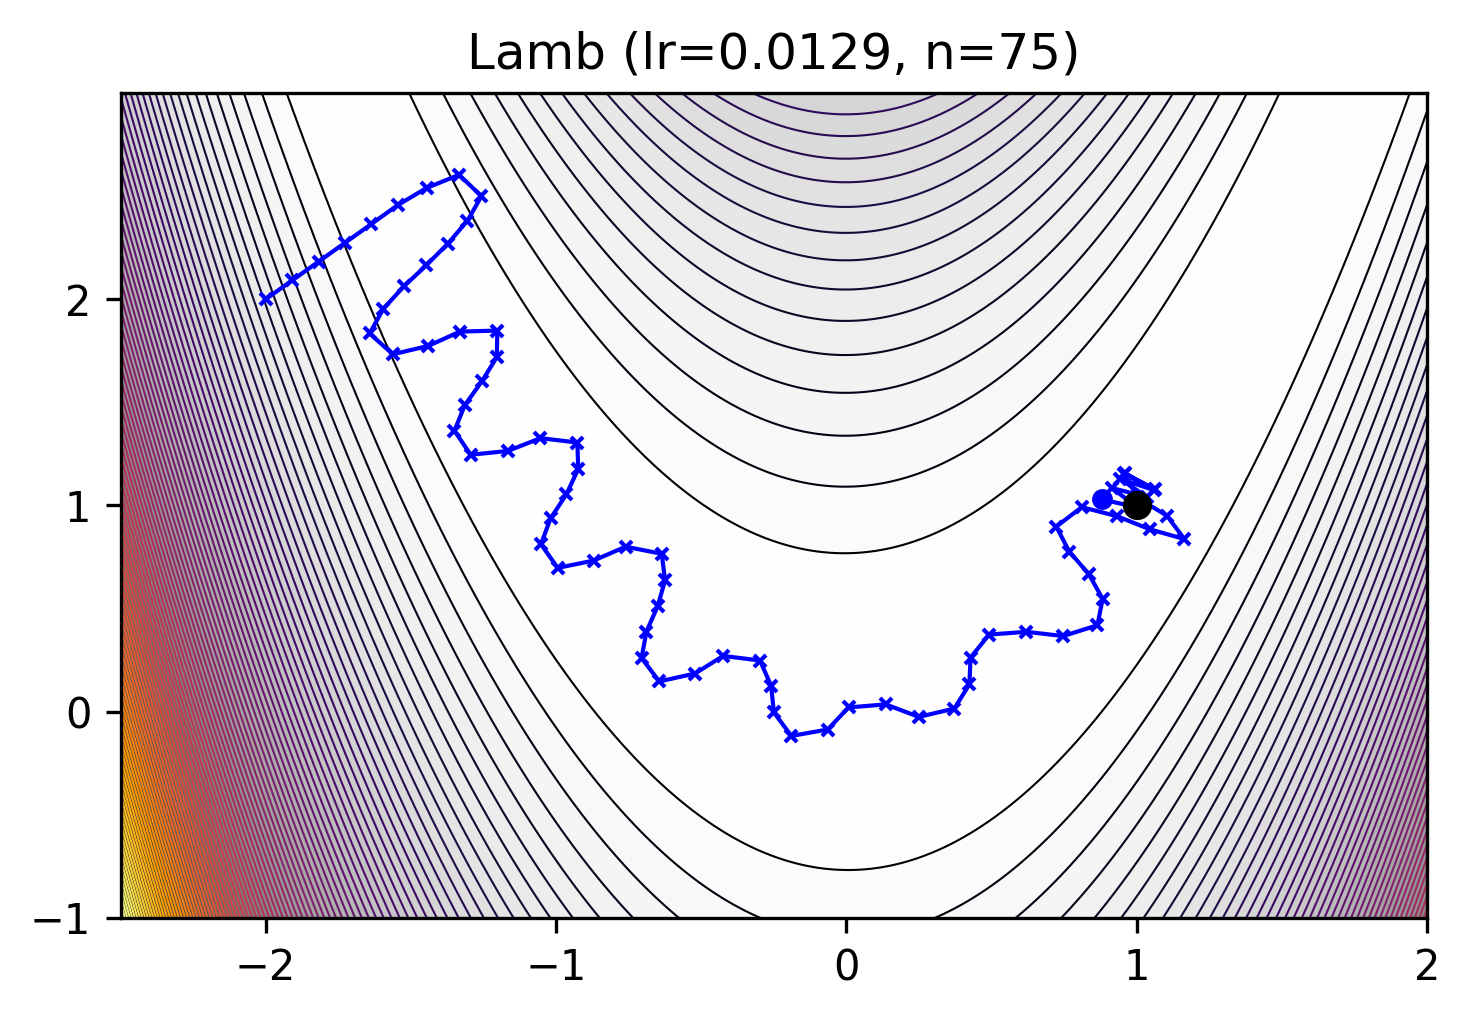
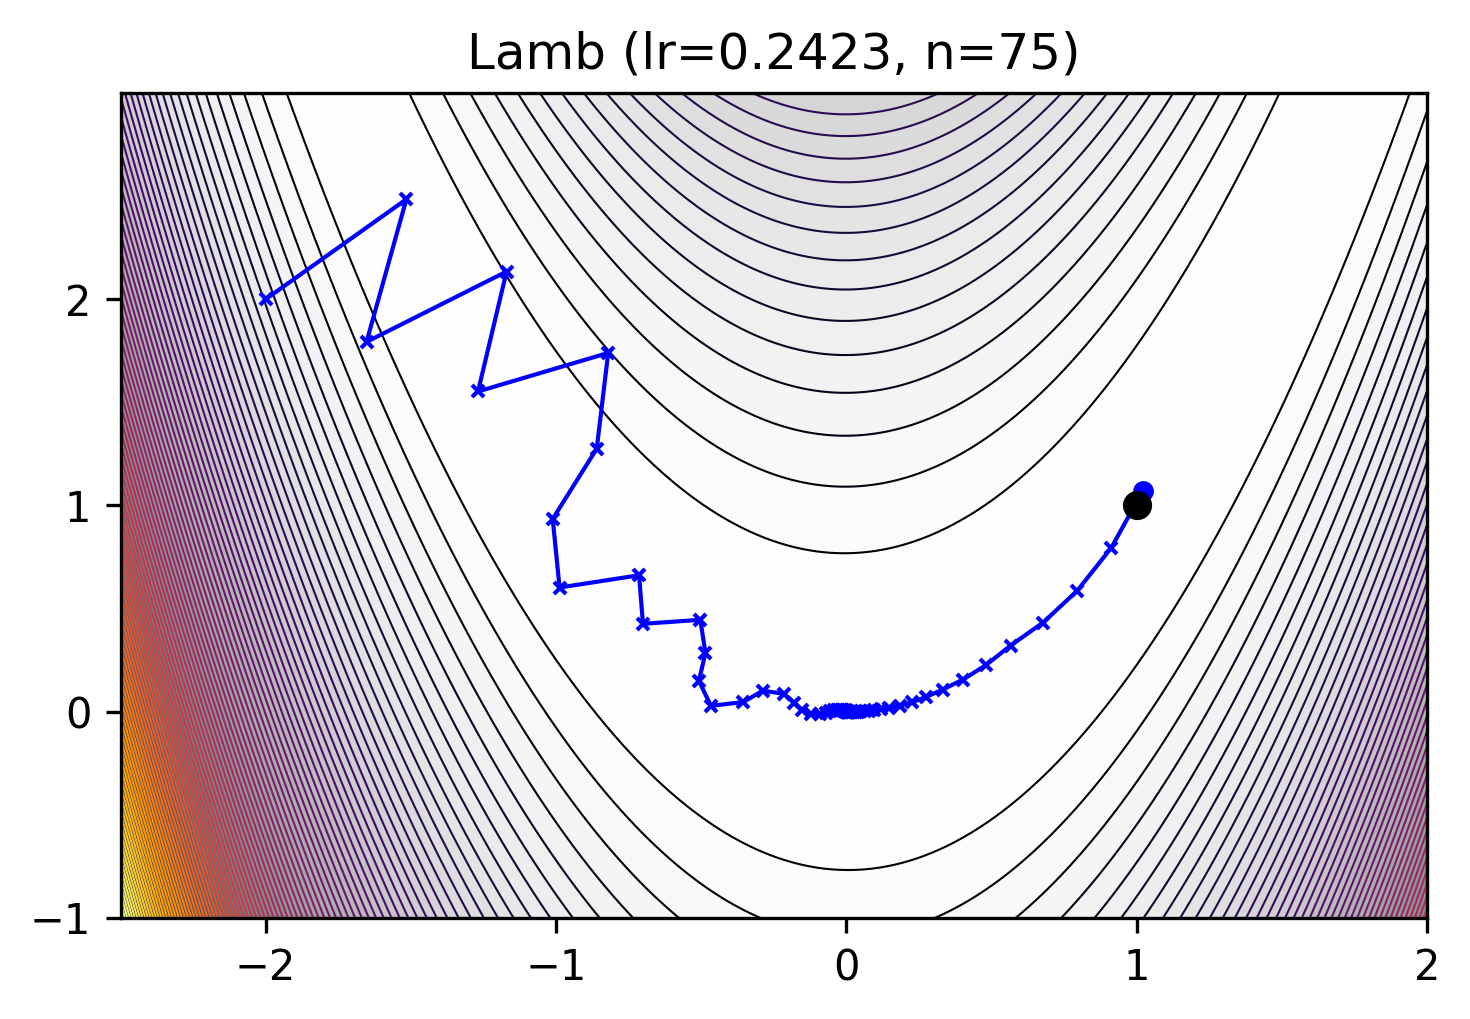
optim: align Lamb with algorithm, updating scale, m, v (#36)

Changed region(s): [[0.2449, 0.1521, 0.8265, 0.7301], [0.5204, 0.0304, 0.6122, 0.0608]]

diff --git a/mlx_optimizers/lamb.py b/mlx_optimizers/lamb.py
@@ -12,14 +12,14 @@ class Lamb(Optimizer):
         m_0 &= 0, v_0 = 0 \\
         m_t &= \beta_1 m_{t-1} + (1 - \beta_1) g_t \\
         v_t &= \beta_2 v_{t-1} + (1 - \beta_2) g_t^2 \\
-        m_t &= m_t / (1 - \beta_1^t) \\
-        v_t &= v_t / (1 - \beta_2^t) \\
-        r_t &= \frac{m_t}{\sqrt{v_t} + \epsilon} \\
+        mh_t &= m_t / (1 - \beta_1^t) \\
+        vh_t &= v_t / (1 - \beta_2^t) \\
+        r_t &= \frac{mh_t}{\sqrt{vh_t} + \epsilon} \\
         \theta_{t+1} &= \theta_t - \eta \frac{\phi(\|\theta_t\|)}{\|r_t + \lambda \theta_t\|} \left(r_t + \lambda \theta_t\right)
 
     [1] You, Yang, et al., 2019. Large Batch Optimization for Deep Learning: 
     Training BERT in 76 Minutes. 
-    https://arxiv.org/abs/1904.00962
+    https://arxiv.org/abs/1904.00962 v5
     https://github.com/tensorflow/addons/blob/master/tensorflow_addons/optimizers/lamb.py
 
     Args:
@@ -27,14 +27,9 @@ class Lamb(Optimizer):
         betas (Tuple[float, float], optional): coefficients
             :math:`(\beta_1, \beta_2)` used for computing running averages of the
             gradient and its square. Default: ``(0.9, 0.999)``
+        weight_decay (float): weight decay. Default: ``0.0``
         eps (float, optional): term :math:`\epsilon` added to the
-            denominator to improve numerical stability. Default: ``1e-6``
-        weight_decay: weight decay. Default: ``0.9``
-        clamp_value: clamp weight_norm in (clamp_value, inf) to scale trust ratio.
-            Best to set to a high value (e.g :math:`10e3`). Default: ``10``
-        adam: always use trust ratio = 1, which turns this
-            into Adam. Useful for comparison purposes. Default: ``False``
-        debias: debias adam by (1 - beta**step). Default: ``False``
+            denominator to improve numerical stability. Default: ``1e-8``
 
     ..
     """
@@ -44,20 +39,14 @@ class Lamb(Optimizer):
         learning_rate: Union[float, Callable[[mx.array], mx.array]],
         betas: List[float] = [0.9, 0.999],
         weight_decay: float = 0.0,
-        clamp_value: float = 10,
-        eps: float = 1e-6,
-        adam: bool = False,
-        debias: bool = False,
+        eps: float = 1e-8,
     ):
         super().__init__()
 
         self._maybe_schedule("learning_rate", learning_rate)
         self.betas = betas
         self.weight_decay = weight_decay
-        self.clamp_value = clamp_value
         self.eps = eps
-        self.adam = adam
-        self.debias = debias
 
     def init_single(self, parameter: mx.array, state: dict):
         """Initialize optimizer state"""
@@ -75,27 +64,22 @@ class Lamb(Optimizer):
         m = b1 * m + (1 - b1) * gradient
         v = b2 * v + (1 - b2) * mx.square(gradient)
 
-        bias_correction = (
-            (mx.sqrt(1 - mx.power(b2, self.state["step"])) / (1 - mx.power(b1, self.state["step"])))
-            if self.debias
-            else 1
-        )
+        m_hat = m / (1 - mx.power(b1, self.state["step"]))
+        v_hat = v / (1 - mx.power(b2, self.state["step"]))
 
-        eta = lr * bias_correction
-        weight_norm = mx.clip(mx.linalg.norm(parameter), self.clamp_value, float("inf"))
-        adam_step = m / (mx.sqrt(v) + self.eps)
-
+        update = m_hat / (mx.sqrt(v_hat) + self.eps)
         if self.weight_decay:
-            adam_step = adam_step + self.weight_decay * parameter
+            update = update + self.weight_decay * parameter
 
-        adam_norm = mx.linalg.norm(adam_step)
-        trust_ratio = (
-            1
-            if self.adam  # TODO: or not mx.any(weight_norm) or not mx.any(adam_norm)
-            else weight_norm / adam_norm
+        w_norm = mx.linalg.norm(parameter)
+        g_norm = mx.linalg.norm(update)
+        ratio = mx.where(
+            mx.greater(w_norm, 0),
+            mx.where(mx.greater(g_norm, 0), (w_norm / g_norm), 1),
+            1,
         )
 
         state["m"] = m
         state["v"] = v
 
-        return parameter - eta * trust_ratio * adam_step
+        return parameter - lr * ratio * update

diff --git a/tests/test_neuralnet.py b/tests/test_neuralnet.py
@@ -49,7 +49,7 @@ optimizers = [
     ),
     (optim.MADGRAD, {"learning_rate": 0.01}, 50),
     (optim.ADOPT, {"learning_rate": 0.01}, 50),
-    (optim.Lamb, {"learning_rate": 0.01}, 50),
+    (optim.Lamb, {"learning_rate": 0.03}, 50),
     (optim.Shampoo, {"learning_rate": 0.03}, 50),
     (optim.Kron, {"learning_rate": 0.03}, 50),
 ]

diff --git a/CHANGELOG.md b/CHANGELOG.md
@@ -11,6 +11,9 @@ and this project adheres to [Semantic Versioning](https://semver.org/spec/v2.0.0
 - optim: Kron PSGD
 - tests: functional compilation (uncompiled, pure, and impure) and init from state
 
+### Fixed
+- optim: Lamb, closer to algorithm with updated scaling function
+
 ## [v0.2.0](https://github.com/stockeh/mlx-optimizers/releases/tag/v0.2.0) - 2024-11-11
 
 ### Added
